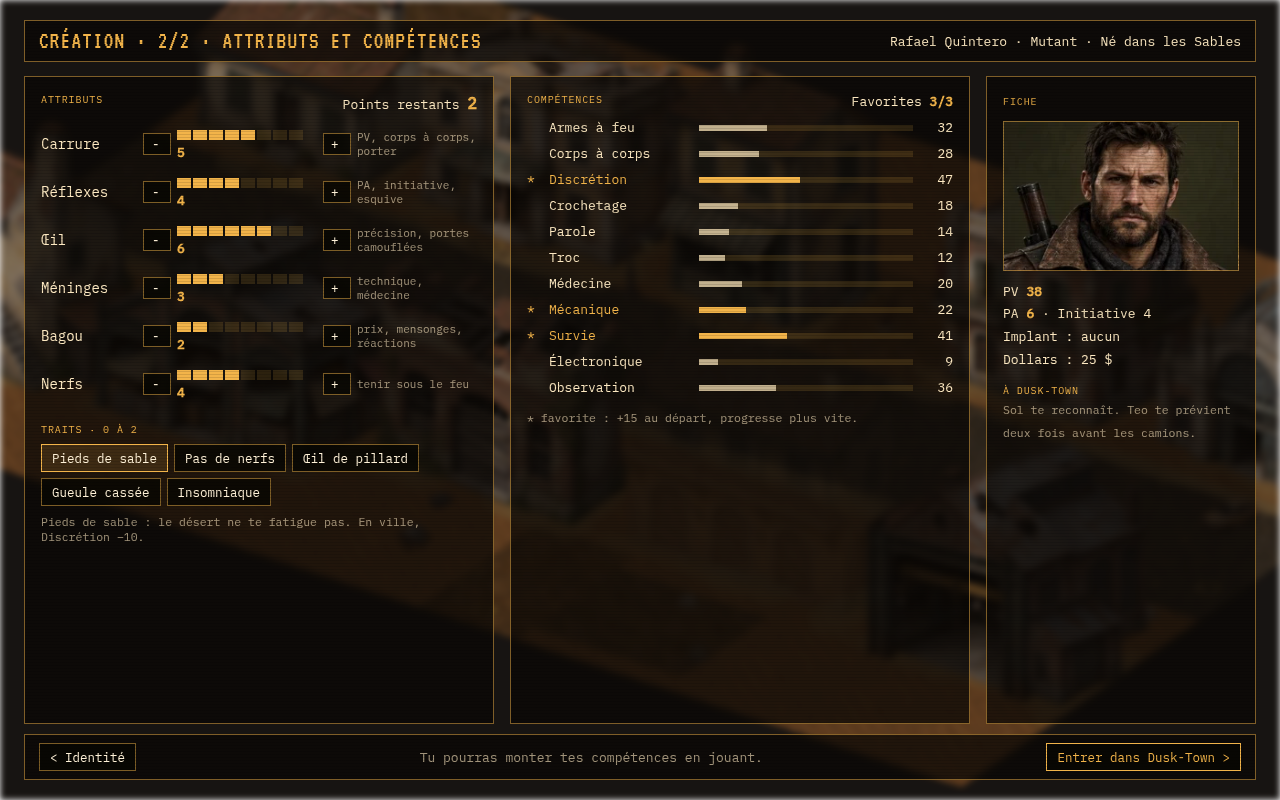
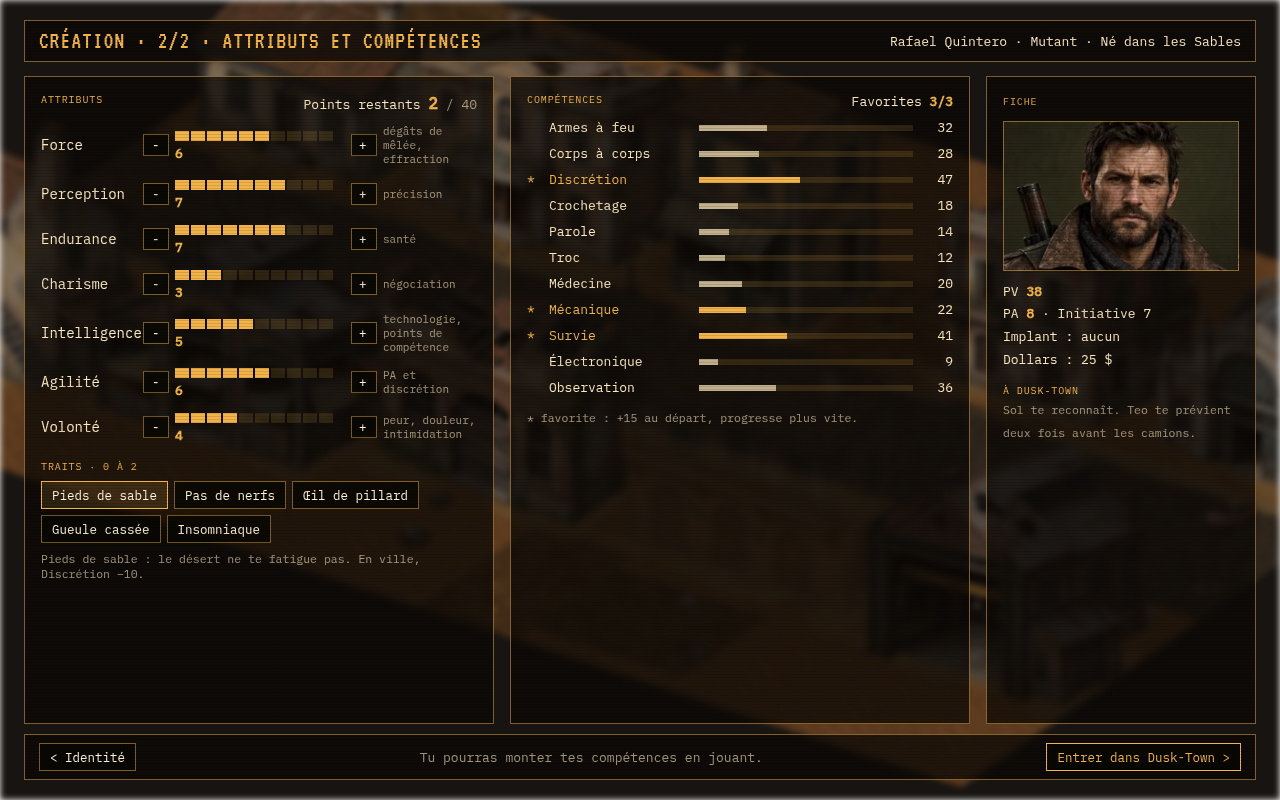
docs : arbitrages (7 attributs maquette, Aura hors création, mutant douane), maquette création 2

diff --git a/docs/systemes/maquettes/generer_maquettes.py b/docs/systemes/maquettes/generer_maquettes.py
@@ -70,7 +70,7 @@ screens.append(page('creation-1-identite', 1280, 800, f"""
  </div>
  <div class=lbl style="margin-top:18px">Effets · Mutant</div>
  <ul style="list-style:none;margin-top:6px;line-height:1.7;font-size:12.5px">
-  <li>Carrure +1 · résiste aux radiations</li><li>Pas d'implant : inconnu d'IO</li><li>Service Militarisé : tire à vue</li><li>À Dusk-Town, certains te parlent plus volontiers</li></ul>
+  <li>Endurance +1 · résiste aux radiations</li><li>Pas d'implant : inconnu d'IO</li><li>Service Militarisé : tire à vue</li><li>À Dusk-Town, certains te parlent plus volontiers</li></ul>
 </div>
 <div class=rp style="left:796px;top:76px;right:24px;bottom:76px;padding:16px">
  <div class=lbl>Origine · Mutant</div>
@@ -78,25 +78,25 @@ screens.append(page('creation-1-identite', 1280, 800, f"""
  {''.join(f'<div class="btn {c}" style="padding:10px;white-space:normal"><div style="font-size:14px;color:{"var(--c)" if c else "#fff2d8"}">{n}</div><div class=muted style="font-size:11.5px;margin-top:5px">{t}</div></div>' for n,t,c in ori)}
  </div>
  <div class=lbl style="margin-top:16px">Apporte</div>
- <div style="font-size:12.5px;line-height:1.7;margin-top:4px">Œil +1 · Discrétion favorite<br>Foulard de sable · 25 $</div>
+ <div style="font-size:12.5px;line-height:1.7;margin-top:4px">Perception +1 · Discrétion favorite<br>Foulard de sable · 25 $</div>
 </div>
 <div class=rp style="left:24px;right:24px;bottom:20px;padding:8px 14px;display:flex;justify-content:space-between;align-items:center">
  <span class=btn>Profil prêt</span><span class=muted>Race et origine ne changent plus en cours de partie.</span><span class="btn on">Suivant &gt;</span></div>
 """))
 # 3. CREATION 2
-attrs = [('Carrure', 5, 'PV, corps à corps, porter'), ('Réflexes', 4, 'PA, initiative, esquive'), ('Œil', 6, 'précision, portes camouflées'),
-         ('Méninges', 3, 'technique, médecine'), ('Bagou', 2, 'prix, mensonges, réactions'), ('Nerfs', 4, 'tenir sous le feu')]
+attrs = [('Force', 6, 'dégâts de mêlée, effraction'), ('Perception', 7, 'précision'), ('Endurance', 7, 'santé'), ('Charisme', 3, 'négociation'),
+         ('Intelligence', 5, 'technologie, points de compétence'), ('Agilité', 6, 'PA et discrétion'), ('Volonté', 4, 'peur, douleur, intimidation')]
 skills = [('Armes à feu', 32, 0), ('Corps à corps', 28, 0), ('Discrétion', 47, 1), ('Crochetage', 18, 0), ('Parole', 14, 0), ('Troc', 12, 0),
           ('Médecine', 20, 0), ('Mécanique', 22, 1), ('Survie', 41, 1), ('Électronique', 9, 0), ('Observation', 36, 0)]
-def bar(v, m=8): return ''.join(f'<span style="display:inline-block;width:14px;height:10px;margin-right:2px;background:{"var(--c)" if i < v else "rgba(242,180,74,.15)"}"></span>' for i in range(m))
+def bar(v, m=10): return ''.join(f'<span style="display:inline-block;width:14px;height:10px;margin-right:2px;background:{"var(--c)" if i < v else "rgba(242,180,74,.15)"}"></span>' for i in range(m))
 screens.append(page('creation-2-attributs', 1280, 800, f"""
 <div class=bg style="background-image:url(file://{D}/bg-q1-desktop.png);filter:blur(3px) brightness(.55)"></div>
 <div class=rp style="left:24px;top:20px;right:24px;padding:8px 14px;display:flex;justify-content:space-between;align-items:center">
  <h2>CRÉATION · 2/2 · ATTRIBUTS ET COMPÉTENCES</h2><span>Rafael Quintero · Mutant · Né dans les Sables</span></div>
 <div class=rp style="left:24px;top:76px;width:470px;bottom:76px;padding:16px">
- <div style="display:flex;justify-content:space-between"><span class=lbl>Attributs</span><span>Points restants <b style="color:var(--c);font-size:16px">2</b></span></div>
- {''.join(f'<div style="display:grid;grid-template-columns:96px 28px 140px 28px 1fr;align-items:center;gap:6px;margin-top:14px"><span style="font-size:14px">{n}</span><span class=btn style="padding:2px 8px">-</span><span>{bar(v)} <b style="color:var(--c)">{v}</b></span><span class=btn style="padding:2px 7px">+</span><span class=muted style="font-size:11px">{t}</span></div>' for n,v,t in attrs)}
- <div class=lbl style="margin-top:22px">Traits · 0 à 2</div>
+ <div style="display:flex;justify-content:space-between"><span class=lbl>Attributs</span><span>Points restants <b style="color:var(--c);font-size:16px">2</b> <span class=muted>/ 40</span></span></div>
+ {''.join(f'<div style="display:grid;grid-template-columns:96px 26px 170px 26px 1fr;align-items:center;gap:6px;margin-top:11px"><span style="font-size:14px">{n}</span><span class=btn style="padding:2px 8px">-</span><span>{bar(v)} <b style="color:var(--c)">{v}</b></span><span class=btn style="padding:2px 7px">+</span><span class=muted style="font-size:11px">{t}</span></div>' for n,v,t in attrs)}
+ <div class=lbl style="margin-top:16px">Traits · 0 à 2</div>
  <div style="display:flex;flex-wrap:wrap;gap:6px;margin-top:8px">
   <span class="btn sel">Pieds de sable</span><span class=btn>Pas de nerfs</span><span class=btn>Œil de pillard</span><span class=btn>Gueule cassée</span><span class=btn>Insomniaque</span></div>
  <div class=muted style="font-size:11.5px;margin-top:8px">Pieds de sable : le désert ne te fatigue pas. En ville, Discrétion −10.</div>
@@ -109,7 +109,7 @@ screens.append(page('creation-2-attributs', 1280, 800, f"""
 <div class=rp style="left:986px;top:76px;right:24px;bottom:76px;padding:16px;line-height:1.75">
  <div class=lbl>Fiche</div>
  <div style="margin:10px 0;border:1px solid var(--d);height:150px;background:url(file://{D}/portrait-player.webp) center 20%/cover"></div>
- PV <b style="color:var(--c)">38</b><br>PA <b style="color:var(--c)">6</b> · Initiative 4<br>Implant : aucun<br>Dollars : 25 $<br>
+ PV <b style="color:var(--c)">38</b><br>PA <b style="color:var(--c)">8</b> · Initiative 7<br>Implant : aucun<br>Dollars : 25 $<br>
  <div class=lbl style="margin-top:10px">À Dusk-Town</div><span class=muted style="font-size:11.5px">Sol te reconnaît. Teo te prévient deux fois avant les camions.</span>
 </div>
 <div class=rp style="left:24px;right:24px;bottom:20px;padding:8px 14px;display:flex;justify-content:space-between;align-items:center">

diff --git a/docs/systemes/MENU_CREATION_COMBAT.md b/docs/systemes/MENU_CREATION_COMBAT.md
@@ -3,6 +3,12 @@
 Légende : **[canon]** roman tome 1 (§ = ligne de l'extraction) · **[décision]** Valentin · **[proposition]** à valider · **[leçon]** maquette `src/a` / bilan `src/b`.
 Style : UI v8 « radio de récupération ambre » (`docs/ui/INTERFACE_V8.md`). Maquettes : `docs/systemes/maquettes/`.
 
+## 0 bis. Arbitrages de Valentin (21/10/2026, 2e série)
+- **[décision]** Attributs = les 7 de la maquette v0.13 (Force, Perception, Endurance, Charisme, Intelligence, Agilité, Volonté).
+- **[décision]** Aura absente de la création ; elle viendra par une quête plus tard.
+- **[décision]** Mutant à la douane de Steel = premier combat ; fuite vers le désert ; à 0 PV, capturé et jeté dans la Sous-Ville.
+- **[décision]** Ordre de production : celui recommandé (menu, sauvegarde, options → création → codex → combat). Lot 1 = menu + sauvegardes + options, Nilo retiré.
+
 ## 0. Décisions de Valentin (21/10/2026)
 - **[décision]** Nilo est retiré dès le début ; il sera débloqué plus tard par une quête (non écrite).
 - **[décision]** La race est choisie au début, dans la création de personnage.
@@ -12,7 +18,7 @@ Style : UI v8 « radio de récupération ambre » (`docs/ui/INTERFACE_V8.md`). M
 
 ## 1. Leçons de la maquette [leçon]
 - Elle avait création (4 origines, 7 attributs, 10 compétences, profils prêts) et combat (PA, portée, couvert, visée, fumée, garde, réaction). Bilan : « personnalisation visuelle et équilibre limités », « IA et objectifs limités » (`02_Etat-reel-et-ecarts` l.28-30).
-- À ne pas reprendre : « ISIO » et la jauge « Aura » de création (ISIO absent du roman ; l'Aura est rare et apprise, Ch. VI §1467, §1488 [canon] : pas un choix de départ) ; 7 attributs proches de SPECIAL.
+- À ne pas reprendre : « ISIO » et la compétence « Aura » de création (ISIO absent du roman ; l'Aura est rare et apprise, Ch. VI §1467, §1488 [canon]). Les 7 attributs, eux, sont repris [décision].
 - À garder : profils prêts à jouer pour qui ne veut pas répartir ; zones de visée.
 
 ## 2. Menu principal [proposition]
@@ -58,15 +64,17 @@ Deux écrans + récapitulatif. Bouton « Profil prêt » pour sauter la réparti
 
 **Écran 2 : Attributs, compétences, traits.**
 
-**Attributs (6)**, de 1 à 8, base 3, **12 points** à répartir :
-| Attribut | Sert à |
+**Attributs (7)** [décision : les 7 de la maquette v0.13, noms et définitions repris de `src/a/.../runtime-v13/app.js` et `data.js`] : de 1 à 10, **40 points** à répartir (maquette).
+| Attribut | Définition (maquette, mot pour mot) |
 |---|---|
-| Carrure | PV, corps à corps, porter |
-| Réflexes | PA, initiative, esquive |
-| Œil | précision, portée, repérer les portes camouflées |
-| Méninges | technique, médecine, nombre de compétences favorites |
-| Bagou | prix, mensonges crus, réactions des PNJ |
-| Nerfs | résistance à la peur, tir sous pression, ne pas fuir |
+| Force | dégâts de mêlée, effraction |
+| Perception | précision |
+| Endurance | santé |
+| Charisme | négociation |
+| Intelligence | technologie et points de compétence |
+| Agilité | PA et discrétion |
+| Volonté | ~~sensibilité à l'Aura~~ → **résistance à la peur, à la douleur et à l'intimidation** [proposition : l'Aura est retirée de la création, décision du 21/10 ; remplacement minimal] |
+Aucun des 7 n'était ISIO ni Aura ; seule la définition de Volonté renvoyait à l'Aura.
 
 **Compétences (11)**, 0-100, 3 **favorites** (+15 au départ, progression plus rapide) ; usages concrets **déjà** dans Dusk-Town :
 | Compétence | Usage existant ou proche |
@@ -83,15 +91,15 @@ Deux écrans + récapitulatif. Bouton « Profil prêt » pour sauter la réparti
 | Électronique | interphone du labo, portiques et terminaux de Steel |
 | Observation | entrées camouflées, signal du miroir de Teo |
 
-**Traits** (0 à 2, chacun avec contrepartie) : Pas de nerfs (PA +1, Nerfs −2), Œil de pillard (objets en plus, prix +10 %), Gueule cassée (intimide, Bagou −1 en commerce), Insomniaque (tour de garde, PV max −3), Pieds de sable (marche désert sans fatigue, ville −Discrétion).
+**Traits** (0 à 2, chacun avec contrepartie) : Pas de nerfs (PA +1, Volonté −2), Œil de pillard (objets en plus, prix +10 %), Gueule cassée (intimide, Charisme −1 en commerce), Insomniaque (tour de garde, PV max −3), Pieds de sable (marche désert sans fatigue, ville −Discrétion).
 
 **Races** [décision pour l'entrée de Steel ; détails = proposition]
 | Race | Implant | Douane de Steel | Réactions | Effet mécanique léger |
 |---|---|---|---|---|
-| Humain | non | refusé [décision] | neutre partout ; Dusk-Town plus à l'aise | Bagou +1 |
-| Mutant | non | attaqué à vue [décision] | Service Militarisé hostile [canon Ch. I §105] ; Sol se confie | Carrure +1, résistance aux radiations, Bagou −1 avec les soldats |
+| Humain | non | refusé [décision] | neutre partout ; Dusk-Town plus à l'aise | Charisme +1 |
+| Mutant | non | attaqué à vue [décision] : premier combat, fuite vers le désert ; à 0 PV, capturé et jeté dans la Sous-Ville [décision] | Service Militarisé hostile [canon Ch. I §105] ; Sol se confie | Endurance +1, résistance aux radiations, Charisme −1 avec les soldats |
 | Augmenté | oui [décision] | passe | Dusk-Town méfiante (« on dirait du matériel d'IO ») | Électronique +15 |
-| Cyborg | oui [décision] | passe | méfiance ; PNJ des Sables évitent | Carrure +1, PV +5, Médecine soigne moins (pièces) |
+| Cyborg | oui [décision] | passe | méfiance ; PNJ des Sables évitent | Force +1, PV +5, Médecine soigne moins (pièces) |
 [canon] Les quatre peuples existent (Ch. XII §3626 : « Humains, Mutants, Augmentés ou Cyborgs… et même des Androïdes ») ; les implants identifient (Ch. I §157, Ch. VII §1652). Androïde non jouable.
 
 **Origines (3 par race, 2175)** [proposition] :
@@ -104,8 +112,8 @@ Chaque origine : +1 attribut, 1 compétence favorite imposée, 1 objet, 1 répli
 ## 6. Combat [proposition]
 **Principe** : vieux Fallout (PA, tour par tour, zones de visée), sans attentes mortes.
 - **Entrée/sortie sans changement d'écran** : même scène, même caméra v4 ; un liseré ambre + bandeau « COMBAT » ; la grille apparaît en surimpression discrète. Fin : grille et bandeau s'effacent, la musique revient.
-- **Initiative** : Réflexes + d4, ordre affiché en frise de portraits en haut (petite, translucide).
-- **PA** : 6 + (Réflexes − 3) / 2, arrondi ; plafonnés à 10. Coûts : 1 PA = 1 m (2 cases de la grille 0,5 m existante) ; tir simple 3, visé 4 (+1 zone), rafale 5, recharger 2, objet 2, se baisser 1 (couvert +).
+- **Initiative** : Agilité + Perception / 2 + d4, ordre affiché en frise de portraits en haut (petite, translucide).
+- **PA** : 5 + Agilité / 2 arrondi bas (formule de la maquette) ; plafonnés à 10. Coûts : 1 PA = 1 m (2 cases de la grille 0,5 m existante) ; tir simple 3, visé 4 (+1 zone), rafale 5, recharger 2, objet 2, se baisser 1 (couvert +).
 - **Portée / couverture / ligne de vue** : rayon sur la grille de collisions existante (bâtiments, meubles, props) ; couvert partiel (props bas : caisses, sacs de sable, épave) −20 %, total = pas de tir ; ligne de vue rouge si bloquée.
 - **Visée de zone** : torse / tête / bras / jambes [leçon : maquette] ; tête −30 % mais critique ; jambes ralentit ; bras désarme.
 - **Fluidité** : déplacement continu (aucun pas à pas) ; **tours ennemis en simultané visuel** quand ils n'interagissent pas entre eux ; vitesse ×1/×2/×4 (option, et maintien d'une touche) ; aucune pause ni confirmation hors action risquée ; fin de tour automatique à 0 PA ; caméra ne bouge que si l'action sort de l'écran.

diff --git a/docs/villes/STEEL_MEGALOPOLIS_PLAN.md b/docs/villes/STEEL_MEGALOPOLIS_PLAN.md
@@ -101,5 +101,4 @@ La quête « La porte d'acier » mène jusqu'à **l'entrée dans la ville** (dou
 `docs/villes/steel/ambiance/` : `01-entree-sarcophage.jpg` (le dôme y paraît trop petit), `02-centre-neons.jpg` (contient du faux texte et un bâtiment-dôme : à ignorer), `03-sous-ville.jpg` (vue plus basse que v4), `04-upper-town.jpg` (angle v4), `04b-upper-town-ciel-artificiel.jpg` (vue frontale pour le ciel synthétique, angle non v4).
 
 ## 10. Questions restantes pour Valentin
-Closes le 21/10/2026 [décision] : Nilo retiré dès le début ; race choisie à la création ; combat tour par tour (voir `docs/systemes/MENU_CREATION_COMBAT.md`).
-1. **Mutant attaqué à vue à la douane.** (a) premier combat du jeu : on peut fuir vers le désert ; (b) capturé puis jeté dans la Sous-Ville (Ch. IV §1087), qui devient son entrée ; (c) repéré de loin, il ne peut pas approcher. **Recommandation : (a)**, avec (b) si le joueur tombe à 0 PV.
+Toutes closes le 21/10/2026 [décision] : Nilo retiré dès le début ; race choisie à la création ; mutant à la douane = premier combat, fuite vers le désert, 0 PV = capturé et jeté dans la Sous-Ville.

diff --git a/docs/CANON_ARBITRAGES.md b/docs/CANON_ARBITRAGES.md
@@ -178,3 +178,6 @@ La cryogénisation d'août 2065 est antérieure à la guerre et indépendante de
 - **[décision]** Création de personnage de cRPG : nom, race, origine, compétences, points d'attributs.
 - **[décision]** Combat tactique au tour par tour façon vieux Fallout, plus fluide et moins lent.
 - Détails proposés : `docs/systemes/MENU_CREATION_COMBAT.md`.
+- **[décision]** (2e série) Attributs = les 7 de la maquette v0.13 : Force, Perception, Endurance, Charisme, Intelligence, Agilité, Volonté. Volonté y valait « sensibilité à l'Aura » : redéfinie [proposition] en résistance à la peur, à la douleur et à l'intimidation.
+- **[décision]** Aura absente de la création, débloquée plus tard par une quête.
+- **[décision]** Mutant à la douane de Steel : premier combat, fuite vers le désert ; 0 PV = capturé et jeté dans la Sous-Ville.
